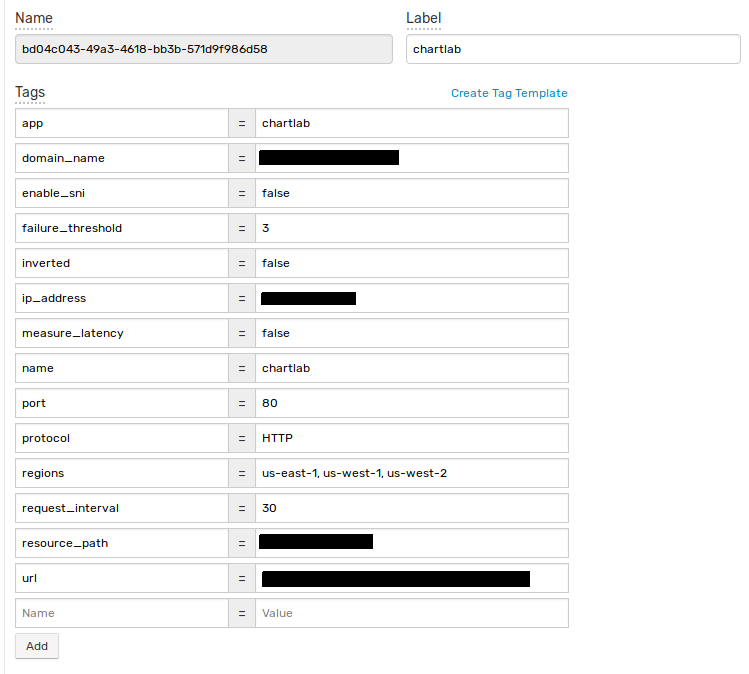
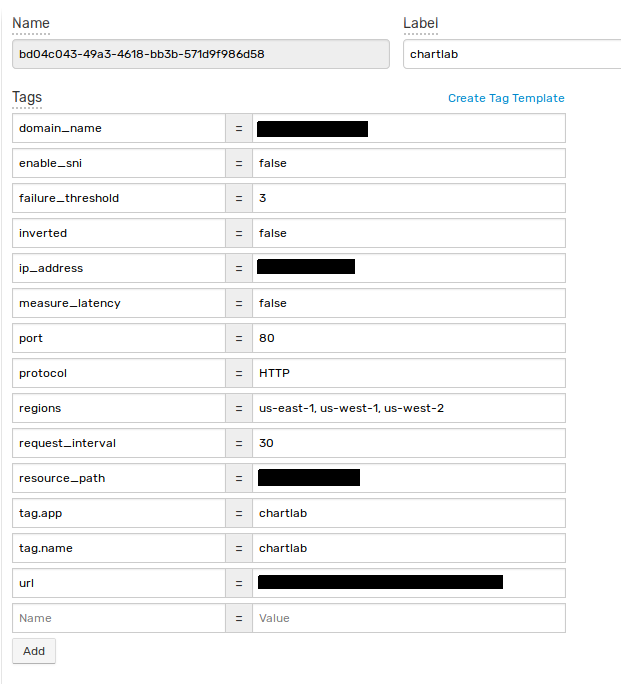
added instructions and fixes, rebase on master

diff --git a/src/main/java/Main.java b/src/main/java/Main.java
@@ -11,13 +11,26 @@ import com.axibase.tsd.model.system.ClientConfiguration;
 
 import java.io.FileReader;
 import java.io.IOException;
+import java.nio.file.AccessDeniedException;
 import java.util.*;
 
 public class Main {
 
     public static void main(String[] args) throws IOException {
+        String atsdPropertiesFile = System.getProperty("axibase.tsd.api.client.properties");
+        if (atsdPropertiesFile == null || atsdPropertiesFile.length() == 0) {
+            System.out.println("No ATSD settings file. Specify -Daxibase.tsd.api.client.properties parameter");
+            return;
+        }
+
+        String awsPropertiesFile = System.getProperty("aws.properties");
+        if (awsPropertiesFile == null || awsPropertiesFile.length() == 0) {
+            System.out.println("No AWS Route53 settings file. Specify -Daws.properties parameter");
+            return;
+        }
+
         Properties properties = new Properties();
-        properties.load(new FileReader(System.getProperty("aws.properties")));
+        properties.load(new FileReader(awsPropertiesFile));
         String awsAccessKey = properties.getProperty("aws.access.key");
         String awsSecretKey = properties.getProperty("aws.secret.key");
         String awsRegion = properties.getProperty("aws.region");
@@ -36,6 +49,21 @@ public class Main {
 
         ListHealthChecksResult healthCheckResult = route53Client.listHealthChecks();
 
+        HashMap<String, HashMap<String, String>> healthCheckTagsMap = getHealthCheckTags(healthCheckResult, route53Client);
+
+        for (HealthCheck healthCheck : healthCheckResult.getHealthChecks()) {
+            HashMap<String, String> healthCheckTags = healthCheckTagsMap.get(healthCheck.getId());
+            if (healthCheckTags == null) {
+                healthCheckTags = new HashMap<>();
+            }
+
+            sendEntity(healthCheck, healthCheckTags, metaDataService);
+        }
+    }
+
+    private static HashMap<String, HashMap<String, String>> getHealthCheckTags(
+            ListHealthChecksResult healthCheckResult,
+            AmazonRoute53 route53Client) {
         ListTagsForResourcesRequest tagsRequest = new ListTagsForResourcesRequest();
         List<String> healthCheckIds = new ArrayList<>(healthCheckResult.getHealthChecks().size());
         for (HealthCheck healthCheck : healthCheckResult.getHealthChecks()) {
@@ -43,96 +71,106 @@ public class Main {
         }
         tagsRequest.setResourceIds(healthCheckIds);
         tagsRequest.setResourceType(TagResourceType.Healthcheck);
-        ListTagsForResourcesResult tagsResult = route53Client.listTagsForResources(tagsRequest);
-        HashMap<String, HashMap<String, String>> healthcheckTagsMap = new HashMap<>();
-        for (ResourceTagSet tagSet : tagsResult.getResourceTagSets()) {
-            HashMap<String, String> tags = new HashMap<>();
-            for (Tag tag : tagSet.getTags()) {
-                tags.put(tag.getKey().toLowerCase(), tag.getValue());
+
+        HashMap<String, HashMap<String, String>> healthCheckTagsMap = new HashMap<>();
+        try {
+            ListTagsForResourcesResult tagsResult = route53Client.listTagsForResources(tagsRequest);
+            for (ResourceTagSet tagSet : tagsResult.getResourceTagSets()) {
+                HashMap<String, String> tags = new HashMap<>();
+                for (Tag tag : tagSet.getTags()) {
+                    tags.put(tag.getKey().toLowerCase(), tag.getValue());
+                }
+                healthCheckTagsMap.put(tagSet.getResourceId(), tags);
             }
-            healthcheckTagsMap.put(tagSet.getResourceId(), tags);
+        } catch (AmazonRoute53Exception e) {
+            System.out.println("User not authorized to perform listTagsForResources request");
         }
 
-        for (HealthCheck healthCheck : healthCheckResult.getHealthChecks()) {
-            Entity entity = new Entity(healthCheck.getId());
+        return healthCheckTagsMap;
+    }
 
-            HashMap<String, String> healthcheckTags = healthcheckTagsMap.get(healthCheck.getId());
-            if (healthcheckTags == null) {
-                healthcheckTags = new HashMap<>();
-            }
+    private static void sendEntity(
+            HealthCheck healthCheck,
+            HashMap<String, String> healthCheckTags,
+            MetaDataService metaDataService) {
+        Entity entity = new Entity(healthCheck.getId());
 
-            HealthCheckConfig checkConfig = healthCheck.getHealthCheckConfig();
-            HashMap<String, String> tags = new HashMap<>();
+        HealthCheckConfig checkConfig = healthCheck.getHealthCheckConfig();
+        HashMap<String, String> tags = new HashMap<>();
 
-            String protocol = checkConfig.getType();
-            String ipAddress = checkConfig.getIPAddress();
-            String domain = checkConfig.getFullyQualifiedDomainName();
-            String port = String.valueOf(checkConfig.getPort());
-            String path = checkConfig.getResourcePath();
+        String protocol = checkConfig.getType();
+        String ipAddress = checkConfig.getIPAddress();
+        String domain = checkConfig.getFullyQualifiedDomainName();
+        String port = String.valueOf(checkConfig.getPort());
+        String path = checkConfig.getResourcePath();
 
-            StringBuilder urlBuilder = new StringBuilder();
-            urlBuilder.append(protocol.toLowerCase()).append("://");
-            if (domain != null && domain.length() > 0) {
-                urlBuilder.append(domain);
-            } else {
-                urlBuilder.append(ipAddress);
-            }
-            urlBuilder.append(":").append(port);
-            if (path != null && path.length() > 0) {
-                urlBuilder.append(path);
-            }
-            String url = urlBuilder.toString();
+        StringBuilder urlBuilder = new StringBuilder();
+        urlBuilder.append(protocol.toLowerCase()).append("://");
+        if (domain != null && domain.length() > 0) {
+            urlBuilder.append(domain);
+        } else {
+            urlBuilder.append(ipAddress);
+        }
+        urlBuilder.append(":").append(port);
+        if (path != null && path.length() > 0) {
+            urlBuilder.append(path);
+        }
+        String url = urlBuilder.toString();
 
-            String name = healthcheckTags.get("name");
-            if (name != null) {
-                entity.setLabel(name);
-            } else {
-                entity.setLabel(url);
-            }
+        String name = healthCheckTags.get("name");
+        if (name != null) {
+            entity.setLabel(name);
+        } else {
+            entity.setLabel(url);
+        }
 
-            tags.put("protocol", protocol);
-            tags.put("ip_address", ipAddress);
-            tags.put("domain_name", domain);
-            tags.put("port", port);
-            tags.put("resource_path", path);
+        addEntityTag(tags, "protocol", protocol);
+        addEntityTag(tags, "ip_address", ipAddress);
+        addEntityTag(tags, "domain_name", domain);
+        addEntityTag(tags, "port", port);
+        addEntityTag(tags, "resource_path", path);
+        addEntityTag(tags, "url", url);
 
-            tags.put("url", url);
+        addEntityTag(tags, "search_string", checkConfig.getSearchString());
+        addEntityTag(tags, "request_interval", checkConfig.getRequestInterval());
+        addEntityTag(tags, "failure_threshold", checkConfig.getFailureThreshold());
+        addEntityTag(tags, "measure_latency", checkConfig.getMeasureLatency());
+        addEntityTag(tags, "inverted", checkConfig.getInverted());
+        addEntityTag(tags, "health_threshold", checkConfig.getHealthThreshold());
+        addEntityTag(tags, "enable_sni", checkConfig.isEnableSNI());
+        addEntityTag(tags, "regions", String.join(", ", checkConfig.getRegions()));
+        addEntityTag(tags, "insufficient_data_health_status", checkConfig.getInsufficientDataHealthStatus());
+        addEntityTag(tags, "children_health_checks", String.join(", ", checkConfig.getChildHealthChecks()));
 
-            tags.put("search_string", checkConfig.getSearchString());
-            if (checkConfig.getRequestInterval() != null) {
-                tags.put("request_interval", String.valueOf(checkConfig.getRequestInterval()));
-            }
-            if (checkConfig.getFailureThreshold() != null) {
-                tags.put("failure_threshold", String.valueOf(checkConfig.getFailureThreshold()));
-            }
-            if (checkConfig.getMeasureLatency() != null) {
-                tags.put("measure_latency", String.valueOf(checkConfig.getMeasureLatency()));
-            }
-            if (checkConfig.getInverted() != null) {
-                tags.put("inverted", String.valueOf(checkConfig.getInverted()));
-            }
-            if (checkConfig.getHealthThreshold() != null) {
-                tags.put("health_threshold", String.valueOf(checkConfig.getHealthThreshold()));
-            }
-            if (checkConfig.isEnableSNI() != null) {
-                tags.put("enable_sni", String.valueOf(checkConfig.isEnableSNI()));
-            }
-            tags.put("regions", String.join(", ", checkConfig.getRegions()));
-            tags.put("insufficient_data_health_status", checkConfig.getInsufficientDataHealthStatus());
-            tags.put("children_health_checks", String.join(", ", checkConfig.getChildHealthChecks()));
+        AlarmIdentifier alarmIdentifier = checkConfig.getAlarmIdentifier();
+        if (alarmIdentifier != null) {
+            addEntityTag(tags, "alarm_identifier_name", alarmIdentifier.getName());
+            addEntityTag(tags, "alarm_identifier_region", alarmIdentifier.getRegion());
+        }
 
-            AlarmIdentifier alarmIdentifier = checkConfig.getAlarmIdentifier();
-            if (alarmIdentifier != null) {
-                tags.put("alarm_identifier_name", alarmIdentifier.getName());
-                tags.put("alarm_identifier_region", alarmIdentifier.getRegion());
-            }
+        for (Map.Entry<String, String> healthCheckTag : healthCheckTags.entrySet()) {
+            addEntityTag(tags, "tag." + healthCheckTag.getKey(), healthCheckTag.getValue());
+        }
 
-            for (Map.Entry<String, String> healthckeckTag : healthcheckTags.entrySet()) {
-                tags.put(healthckeckTag.getKey(), healthckeckTag.getValue());
-            }
+        entity.setTags(tags);
+        metaDataService.createOrReplaceEntity(entity);
+    }
 
-            entity.setTags(tags);
-            metaDataService.createOrReplaceEntity(entity);
+    private static void addEntityTag(HashMap<String, String> tags, String key, String value) {
+        if (value != null) {
+            tags.put(key, value);
+        }
+    }
+
+    private static void addEntityTag(HashMap<String, String> tags, String key, Integer value) {
+        if (value != null) {
+            tags.put(key, String.valueOf(value));
+        }
+    }
+
+    private static void addEntityTag(HashMap<String, String> tags, String key, Boolean value) {
+        if (value != null) {
+            tags.put(key, String.valueOf(value));
         }
     }
 }
